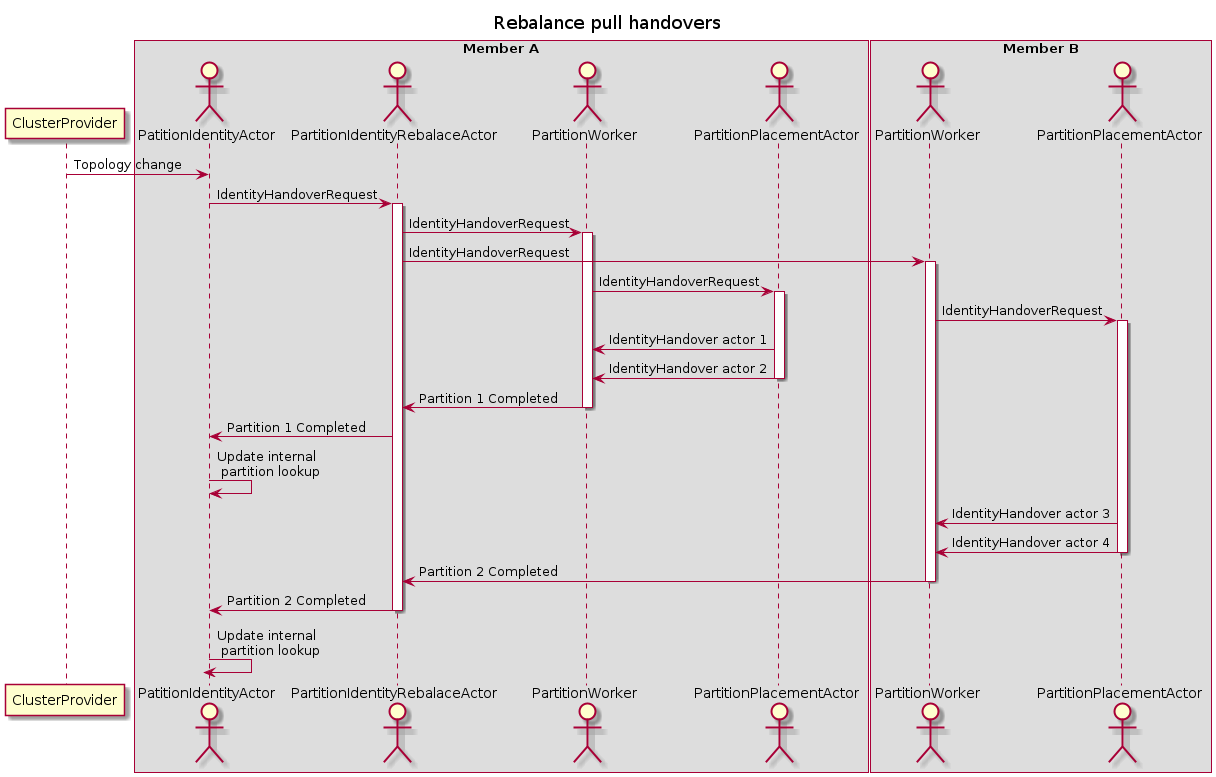
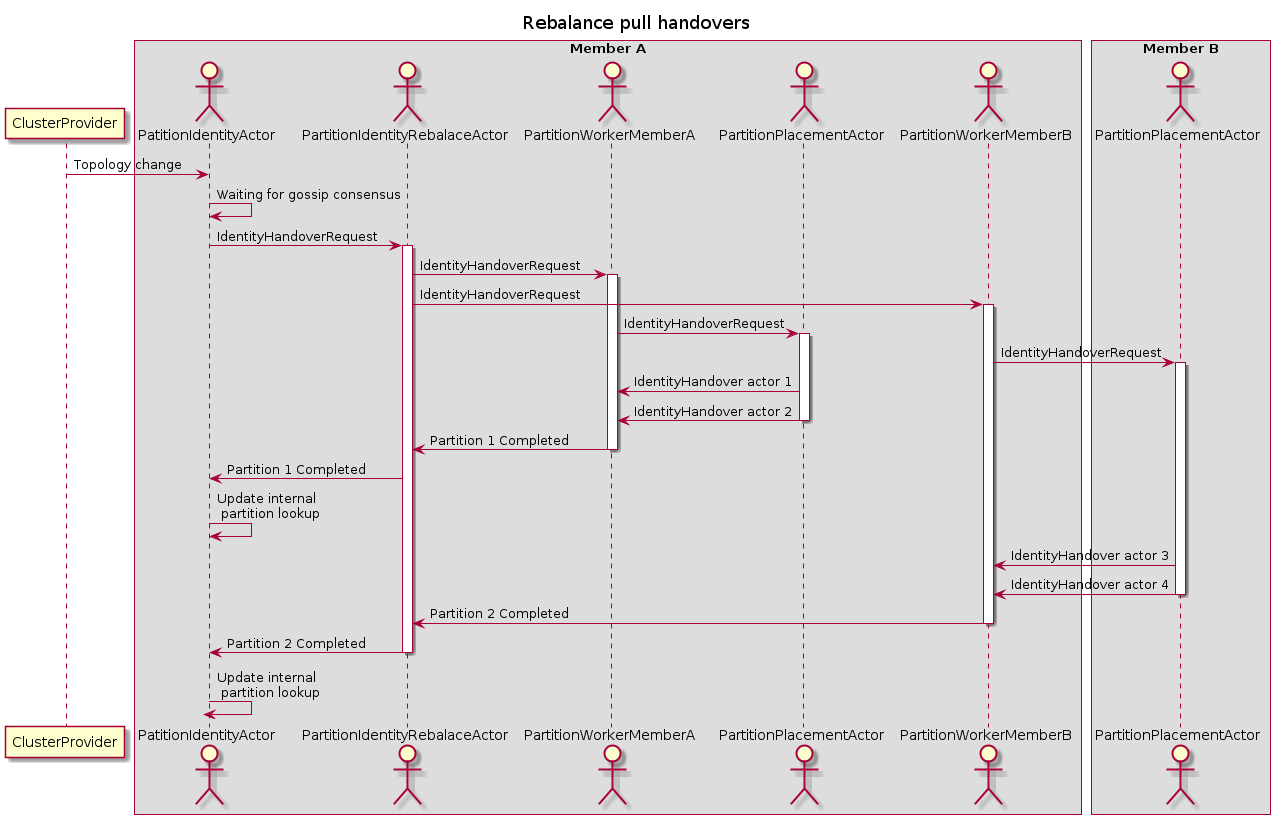
parititon identiy lookup

diff --git a/hugo/content/docs/cluster/identity-lookup-net.md b/hugo/content/docs/cluster/identity-lookup-net.md
@@ -13,7 +13,9 @@ The main feature of this strategy is to split responisibility of owning actor's 
 
 ![Parition Identity Lookup](images/partition-identity-lookup.jpg)
 
-Partition Identity Lookup can work in 4 modes:
+Partition Identity Lookup can work in 4 modes. They control how the cluster is behaving during rebalance (when members are going up and down). Rebalance is needed not not leave any actor orphaned (running actor that can't receive any message). It also prevents before having two instances of the same actor in the cluster.
+
+Rebalance is triggered by cluster topology change but it doesn't start until all members in a cluster will reach topology consensus. After reaching topology consensus the rebalance is starting.
 
 * Pull, Send: Full - identity owner pulls the full topology structure from placement actor
 * Pull, Send: Delta (Experimental) - identity owner pulls only information about actors that were affected by topology change from placement actor
@@ -24,16 +26,52 @@ Partition Identity Lookup can work in 4 modes:
 
 ![Pull-full rebalance](images/rebalance-pull-handovers.png)
 
+### Placement strategies
 
+It is possible to choose between two actor placement strategies. Strategy might be selected for each cluster kind.
 
+``` csharp
 
-* PatitionActivatorLookup
+var clusterKind = new ClusterKind("someKind", someKindProps)
+                    .WithMemberStrategy(cluster => new SomeCustomStrategy(cluster));
 
+```
 
+#### SimpleMemberStrategy (default)
 
-* DBIdentityLookup
+This strategy is the default strategy. It uses round-robin algorithm to select the member to spawn an actor.
+
+#### LocalAffinityStrategy
+
+It tries to spawn an actor on the same member as sender. If it fails then it tries to select a member using round-robin algorithm.
+
+This strategy might be very useful in event stream processing cases, e.g. when member reads from kafka partition and partition key is also actor's identity. It results in reducing needed grpc calls between members.
+
+```csharp
+
+var clusterKind = new ClusterKind("someKind", someKindProps)
+                    .WithLocalAffinityRelocationStrategy(new LocalAffinityOptions
+                    {
+                        TriggersLocalAffinity = envelope => 
+                            envelope.Message is GrainRequestMessage { RequestMessage: MessageTypeThatShouldTriggerRelocation },
+                        RelocationThroughput = new ThrottleOptions(
+                            MaxEventsInPeriod: ParseInt(config["LocalAffinityMaxEventsInPeriod"]),
+                            Period: ParseTimeSpan(config["LocalAffinityPeriodSeconds"]))
+                    });
+
+```
+
+In the cluster, members might go down and up so it is needed also to relocate actors between members to keep local affinity. It is possible to control relocation process. Relocating too many actors in the same time might case that the whole cluster is unstable.
+
+* `LocalAffinityOptions.TriggersLocalAffinity` - delegate that checks if relocation process check should be fired for a given message, e.g. to not relocate when message is comming from non-partitioned source (outside kafka)
+
+* `LocalAffinityOptions.RelocationThroughput` - controls a throughput of relocation to not relocate too many actors in the same time
+
+## PatitionActivatorLookup
+
+## DBIdentityLookup
   
-  * Redis implementaion
+### Redis implementaion
 
-  * Mongo implementation
+### Mongo implementation
 
